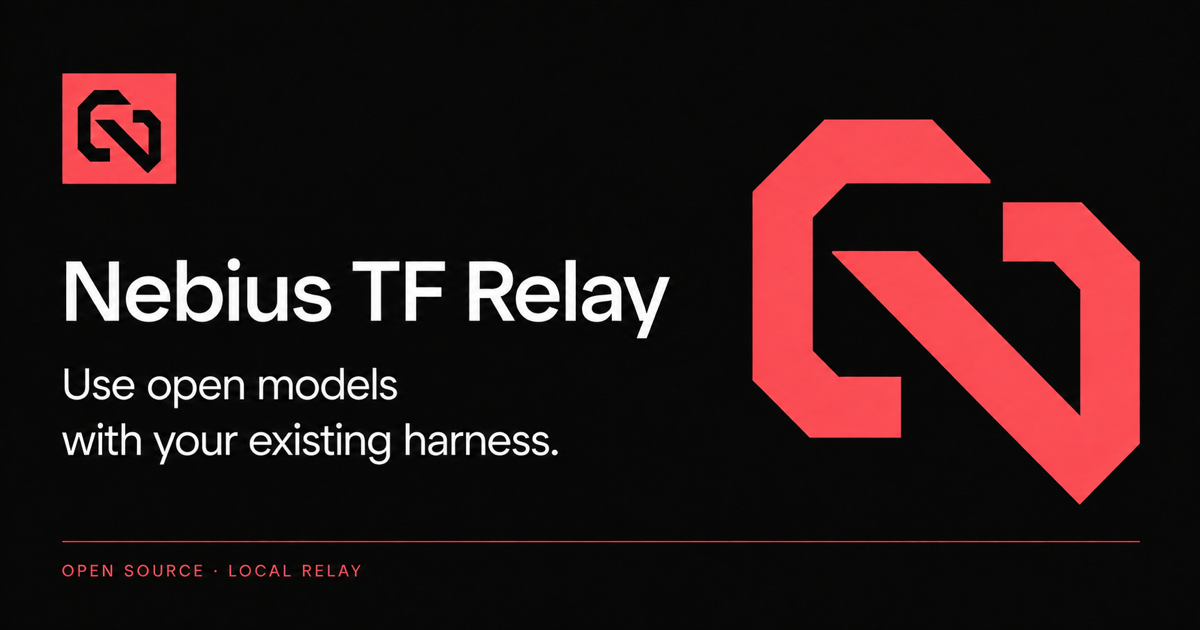
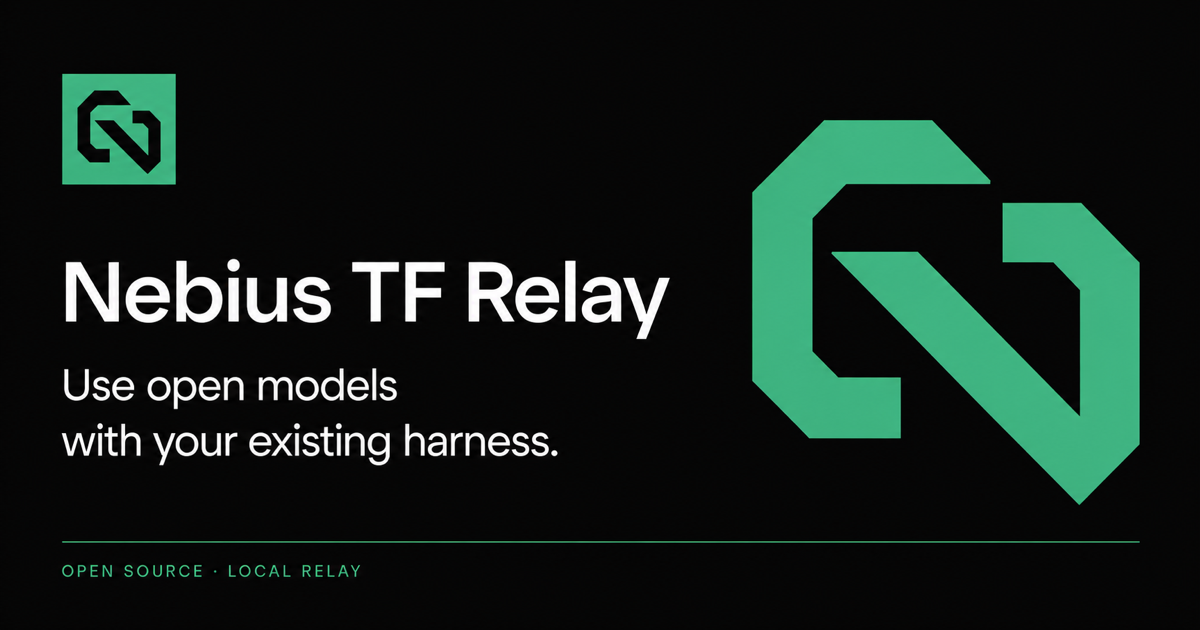
site: switch Relay branding to jade green

diff --git a/site/src/styles/landing.css b/site/src/styles/landing.css
@@ -16,7 +16,7 @@
   top: -100px;
   z-index: 50;
   padding: 12px 18px;
-  background: #ff6376;
+  background: #38b889;
   color: #17210c;
   border-radius: 4px;
 }
@@ -173,11 +173,11 @@
   color: white;
 }
 .relay-home .button-lime {
-  background: #ff6376;
+  background: #38b889;
   color: #181c10;
 }
 .relay-home .button-lime:hover {
-  background: #ff8594;
+  background: #67d6ae;
 }
 .relay-hero {
   position: relative;
@@ -214,7 +214,7 @@
   width: 6px;
   height: 6px;
   border-radius: 50%;
-  background: #ff6376;
+  background: #38b889;
   flex-shrink: 0;
 }
 .eyebrow {
@@ -226,7 +226,7 @@
   margin: 0 0 18px;
 }
 .relay-hero .eyebrow {
-  color: #ff6376;
+  color: #38b889;
 }
 .relay-hero h1 {
   font-size: 64px;
@@ -397,7 +397,7 @@
   padding: 22px;
 }
 .install-command > span {
-  color: #ff6376;
+  color: #38b889;
 }
 .install-command code {
   flex: 1;
@@ -419,7 +419,7 @@
   cursor: pointer;
 }
 .copy-button:hover {
-  color: #ff6376;
+  color: #38b889;
   background: #30392a;
 }
 .terminal-foot {
@@ -563,7 +563,7 @@
   gap: 40px;
 }
 .feature-grid svg {
-  color: #ff6376;
+  color: #38b889;
 }
 .feature-grid h3 {
   font-size: 15px;

diff --git a/site/src/styles/docs.css b/site/src/styles/docs.css
@@ -4,10 +4,10 @@
   --color-faint: #626c5b;
   --color-line: #e0e5da;
   --color-code: #f2f5ef;
-  --color-violet: #a32c40;
-  --color-violet-soft: #fff0f2;
-  --color-lime: #ff6376;
-  --color-lime-ink: #842136;
+  --color-violet: #176a4d;
+  --color-violet-soft: #edf9f3;
+  --color-lime: #38b889;
+  --color-lime-ink: #15543f;
 }
 .docs-header {
   border-bottom: 1px solid var(--relay-line);
@@ -217,7 +217,7 @@
   padding: 14px 16px;
 }
 .docs-command > span {
-  color: #ff6376;
+  color: #38b889;
   font-family: var(--font-mono);
   font-size: 13px;
 }

diff --git a/site/public/brand-assets.md b/site/public/brand-assets.md
@@ -8,6 +8,6 @@ Relay branding identifies this open-source project. Provider marks identify mode
 
 ## Generation prompts
 
-- Logo: a bold geometric relay symbol made from two angular open brackets and a diagonal bridge, centered with generous margins, dark mark on an opaque coral-red background. No text or provider marks. Initial lime concept recolored to coral-red at the project owner's request.
-- Social image: near-black wide banner, Relay symbol, white "Nebius TF Relay" heading, "Use open models" / "with your existing harness." supporting copy, and "OPEN SOURCE · LOCAL RELAY" footer. All accents coral-red; preserve identity and typography.
-- Favicon and touch icon: size exports of the approved generated coral-red logo, without changing its design.
+- Logo: a bold geometric relay symbol made from two angular open brackets and a diagonal bridge, centered with generous margins, dark mark on an opaque jade-green background. No text or provider marks. Initial lime and coral concepts recolored to jade-green at the project owner's request.
+- Social image: near-black wide banner, Relay symbol, white "Nebius TF Relay" heading, "Use open models" / "with your existing harness." supporting copy, and "OPEN SOURCE · LOCAL RELAY" footer. All accents jade-green; preserve identity and typography.
+- Favicon and touch icon: size exports of the approved generated jade-green logo, without changing its design.
